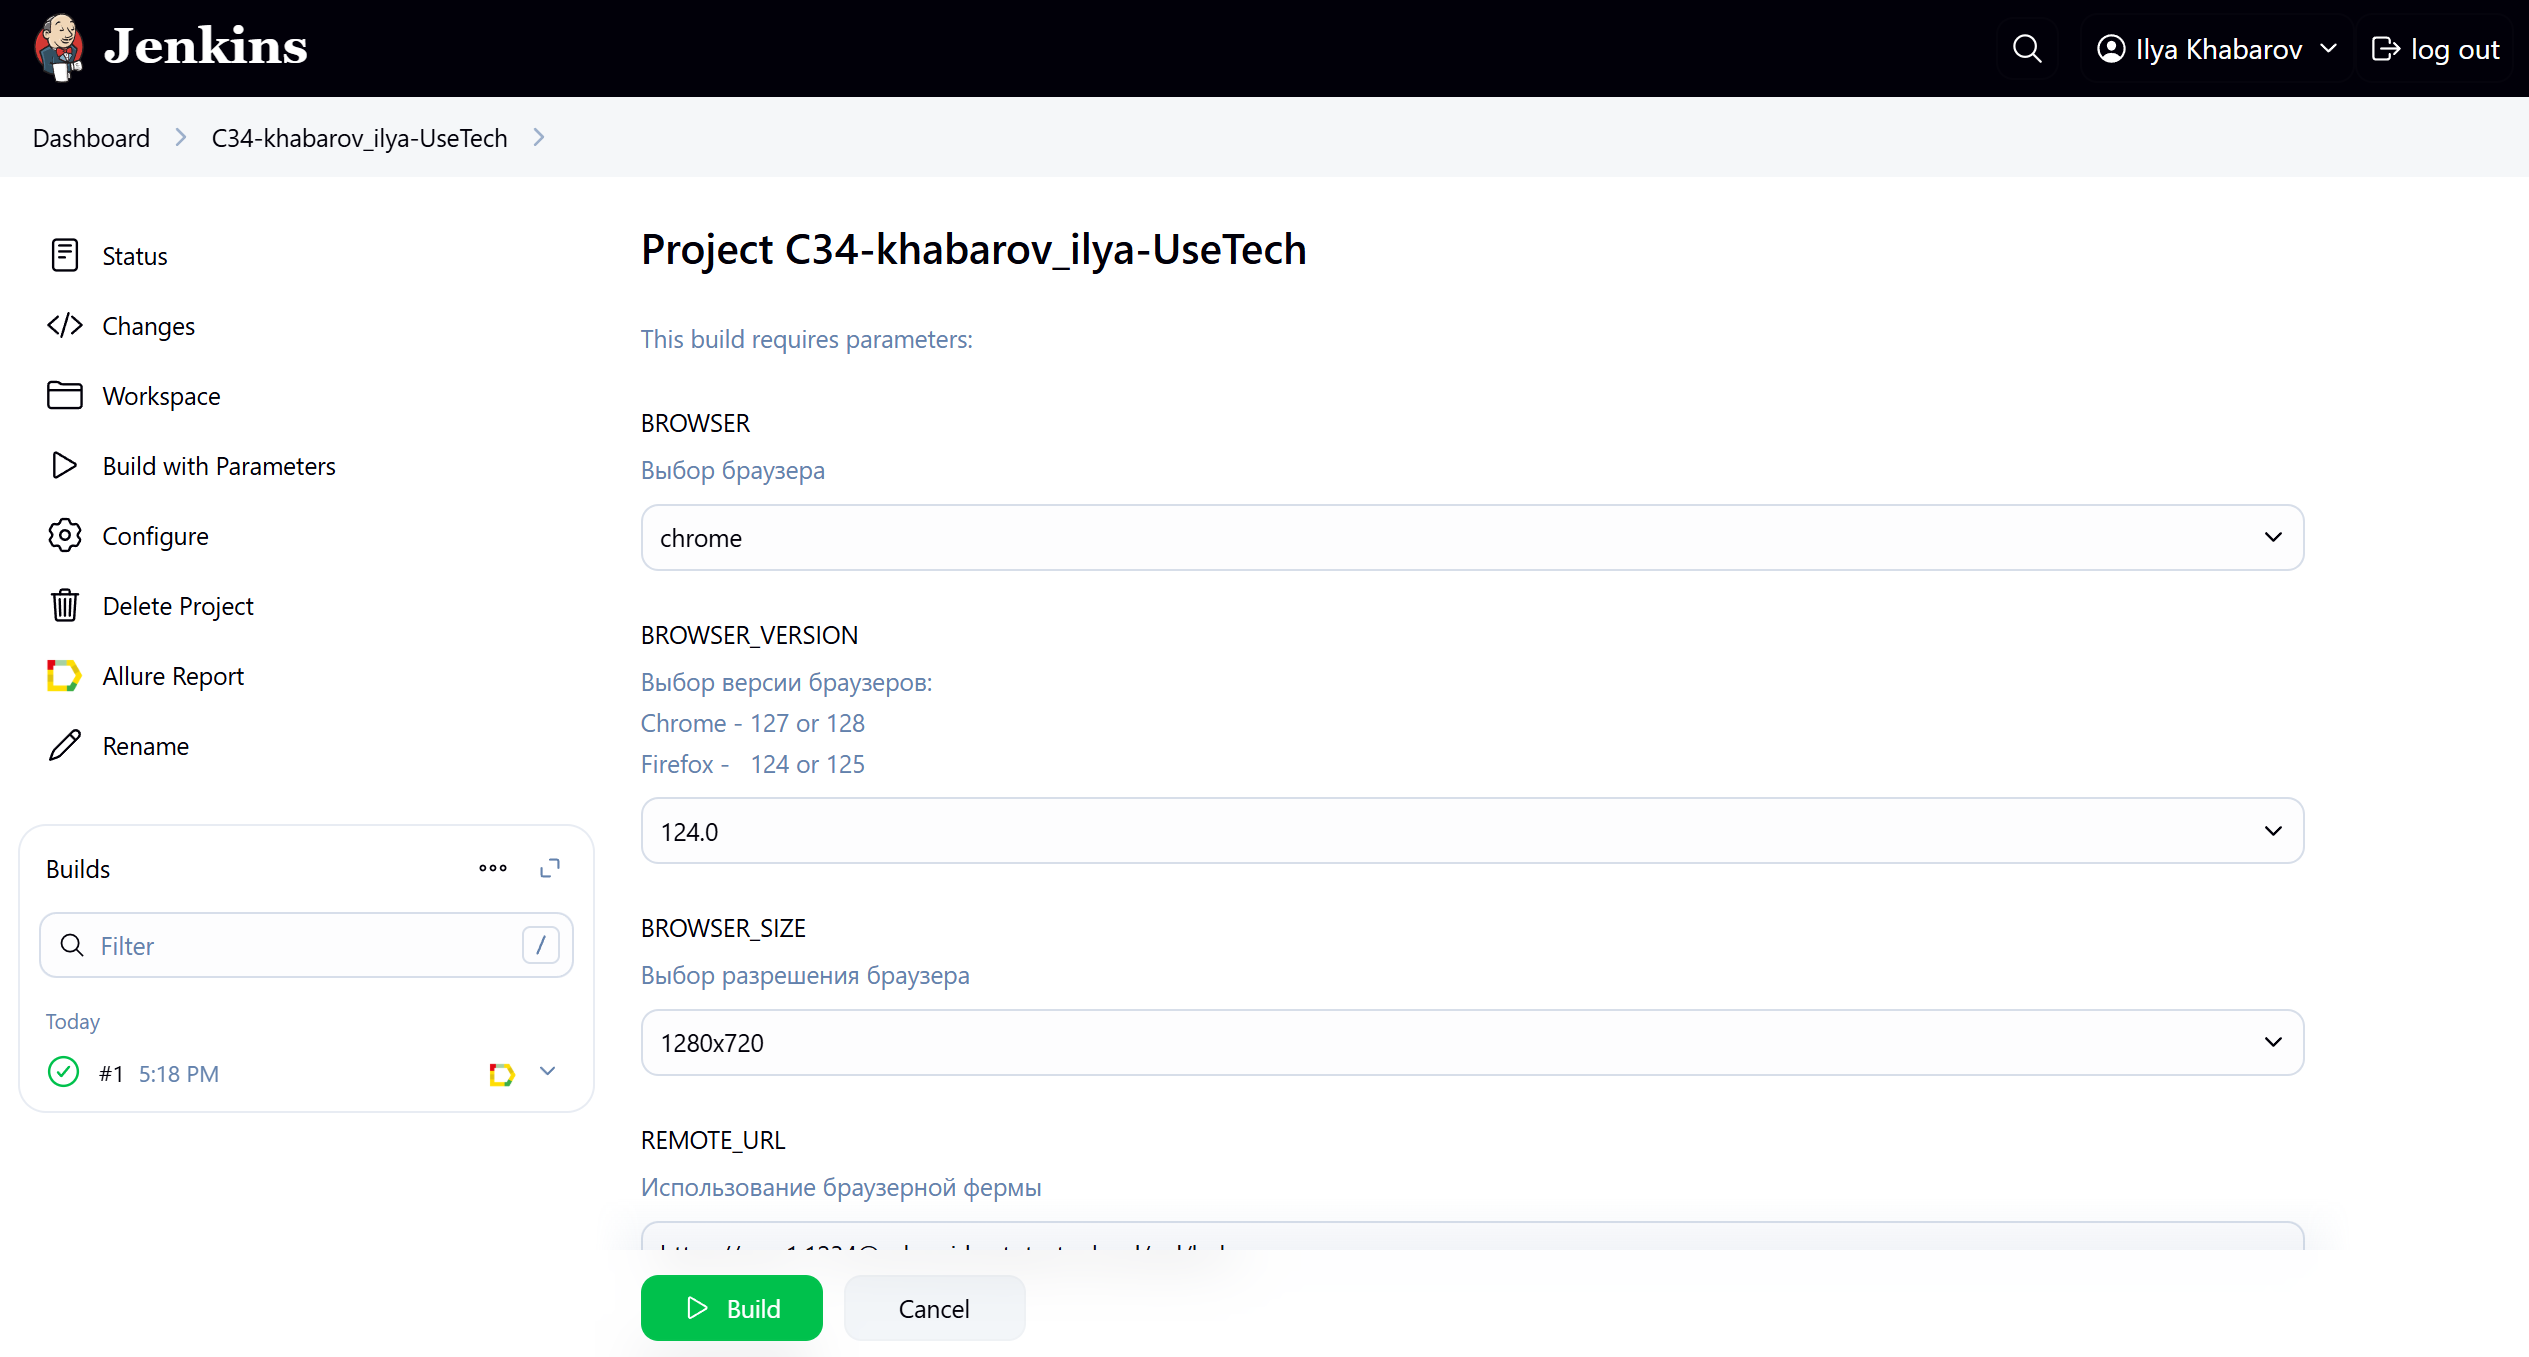
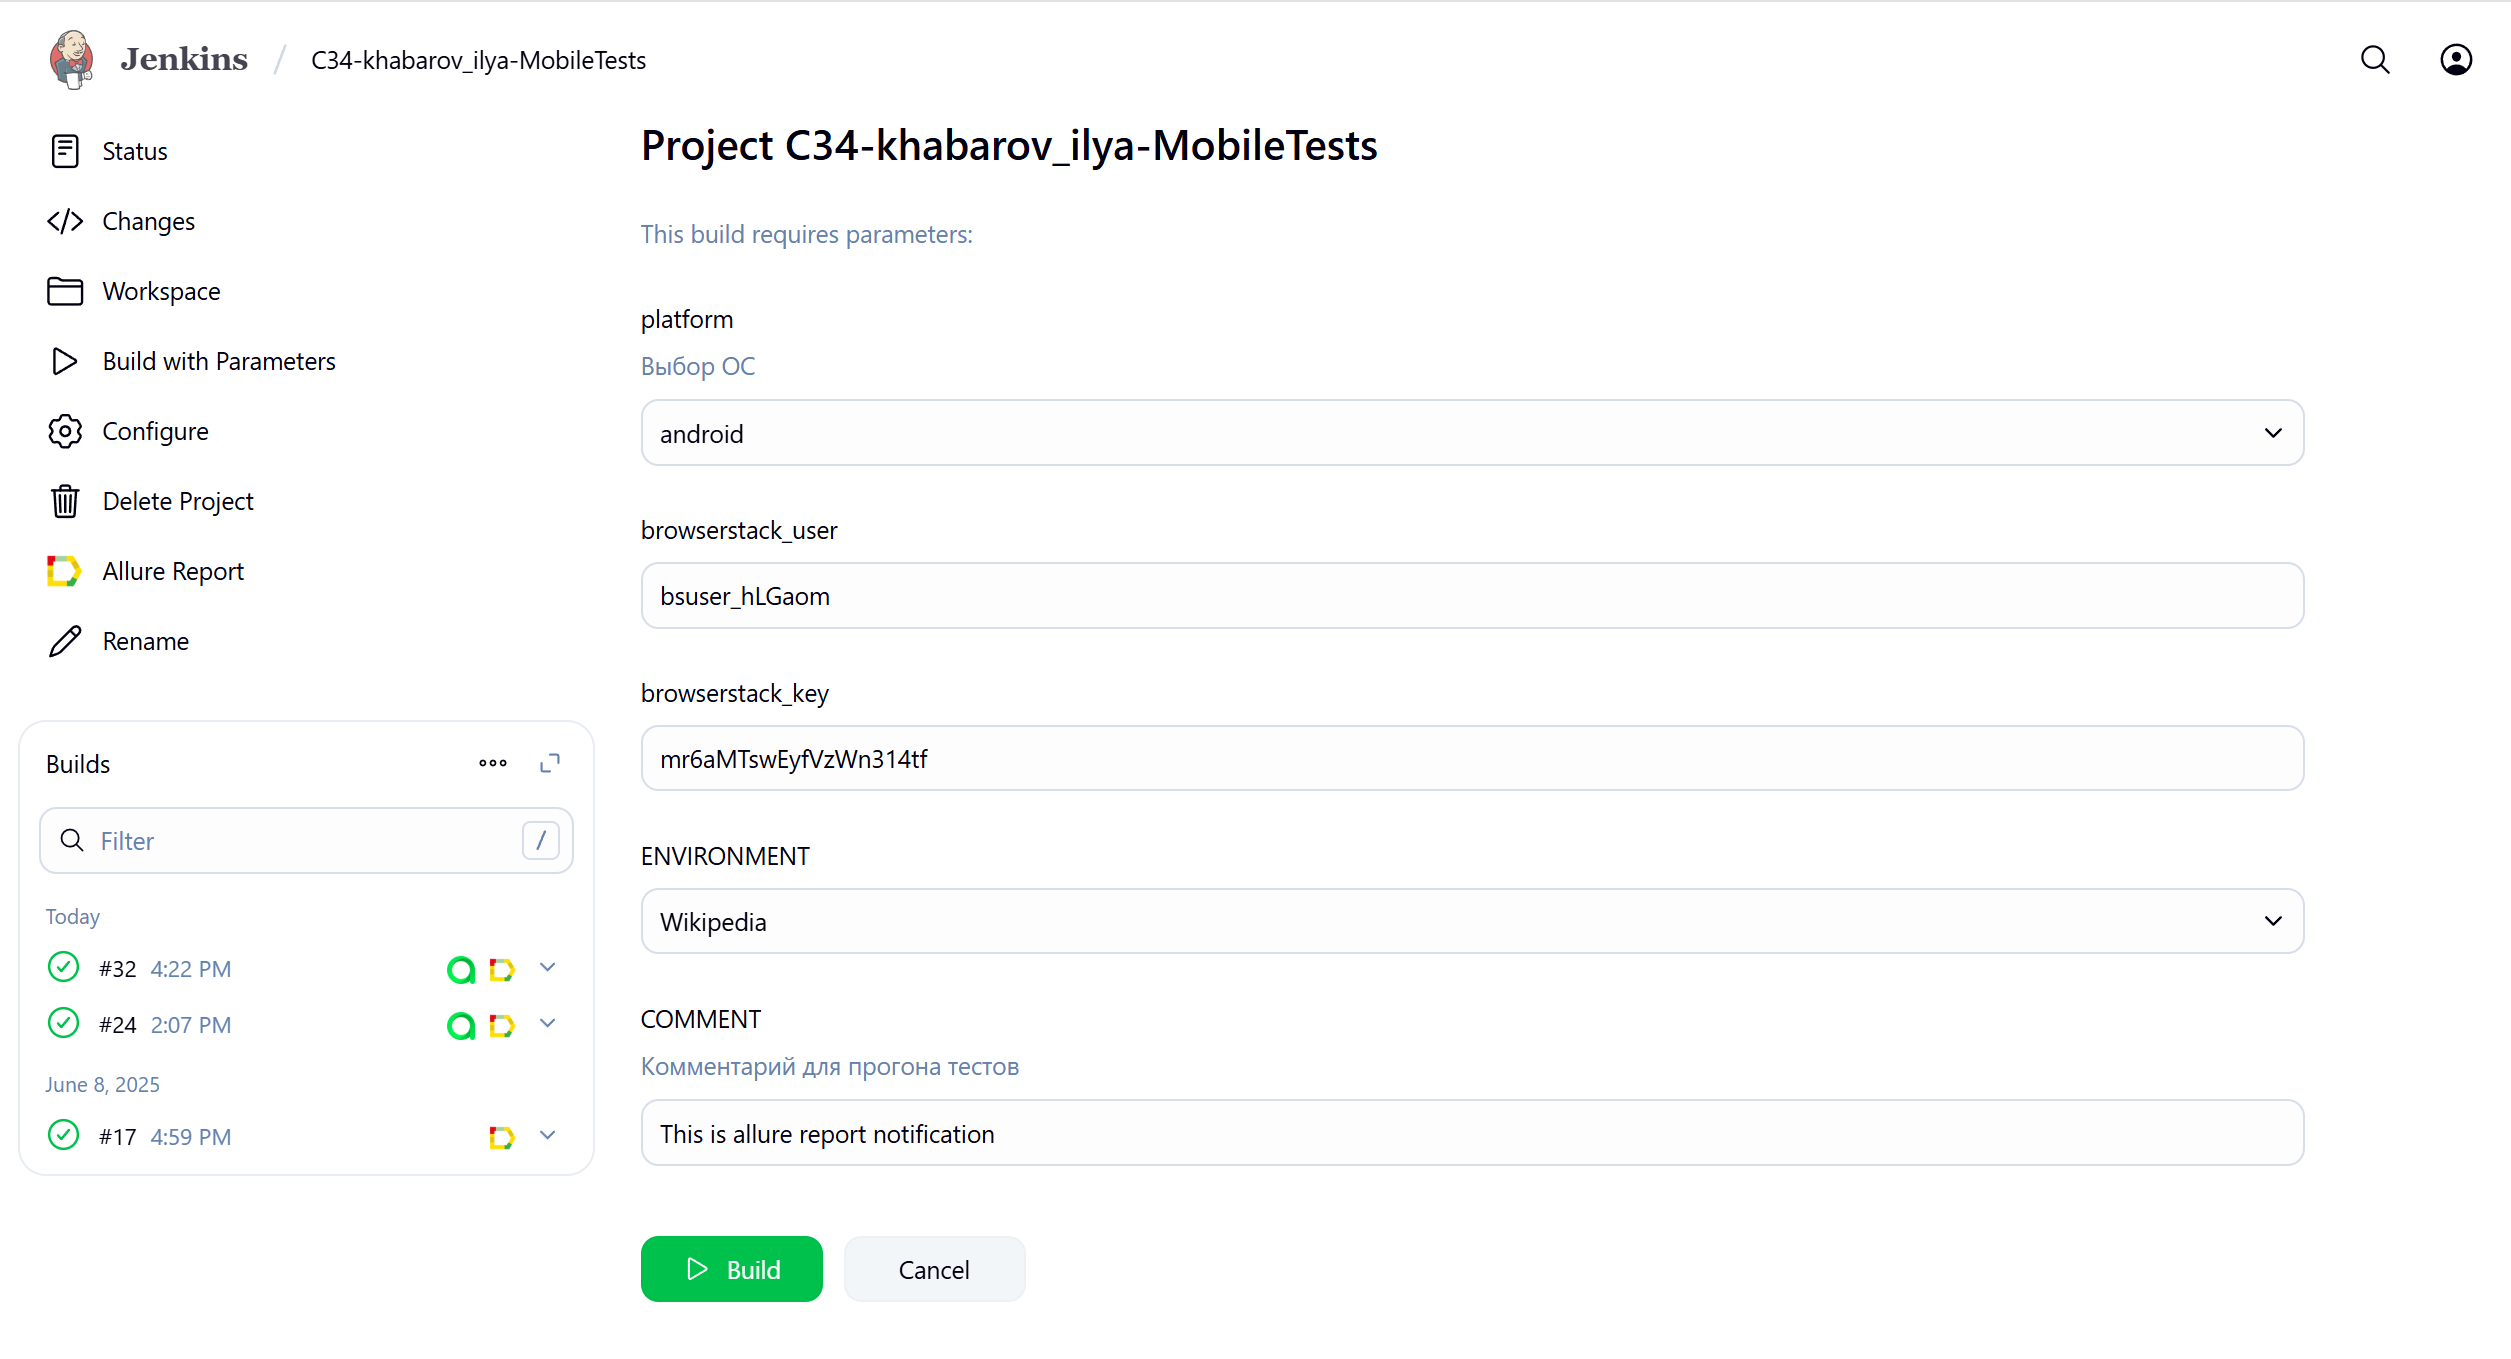
add media for README.md

diff --git a/README.md b/README.md
@@ -73,7 +73,7 @@ gradle android_browserstack_test
 Для запуска сборки необходимо перейти в раздел <code>Buld with parameters</code>, выбрать нужные параметры запуска
 автотестов и нажать кнопку <code>Build</code>.
 <p align="center">
-<img title="Jenkins Build" src="media/report_media/allure1_report_example.png">
+<img title="Jenkins Build" src="media/report_media/allure_report_example.png">
 </p>
 После выполнения сборки, в блоке <code>Builds</code> напротив номера сборки появятся значки <code>Allure Report</code> и <code>Allure TestOps</code>, при клике на которые откроется страница со сформированным html-отчетом и тестовой документацией соответственно.
 
@@ -87,7 +87,7 @@ gradle android_browserstack_test
 * Видео выполнения автотеста.
 
 <p align="center">
-<img title="Allure Overview" src="media/report_media/allur1e_tests_result_example.png">
+<img title="Allure Overview" src="media/report_media/allure_tests_result_example.png">
 </p>
 
 ## <img width="4%" style="vertical-align:middle" title="Telegram" src="media/icons/Telegram.svg"> Уведомления в Telegram с использованием бота
@@ -96,7 +96,7 @@ gradle android_browserstack_test
 сообщение с отчетом о прогоне тестов.
 
 <p align="center">
-<img width="70%" title="Telegram Notifications" src="media/report_media/telegram_report1.png">
+<img width="70%" title="Telegram Notifications" src="media/report_media/telegram_report.png">
 </p>
 
 ## <img width="4%" style="vertical-align:middle" title="Selenoid" src="media/icons/browserstack.svg"> Видео примера запуска тестов в Browserstack
@@ -104,8 +104,6 @@ gradle android_browserstack_test
 В отчетах Allure для каждого теста прикреплено и видео прохождения теста
 
 <p align="center">
-<img title="Selenoid Video" src="images/video/video.gif" width="350"  alt="video">  
+<img title="Selenoid Video" src="media/report_media/video.gif" width="350"  alt="video">  
 </p>
-<p align="center">
-<img title="Selenoid Video" src="images/video/video1.gif" width="350"  alt="video"> 
-</p>
+
